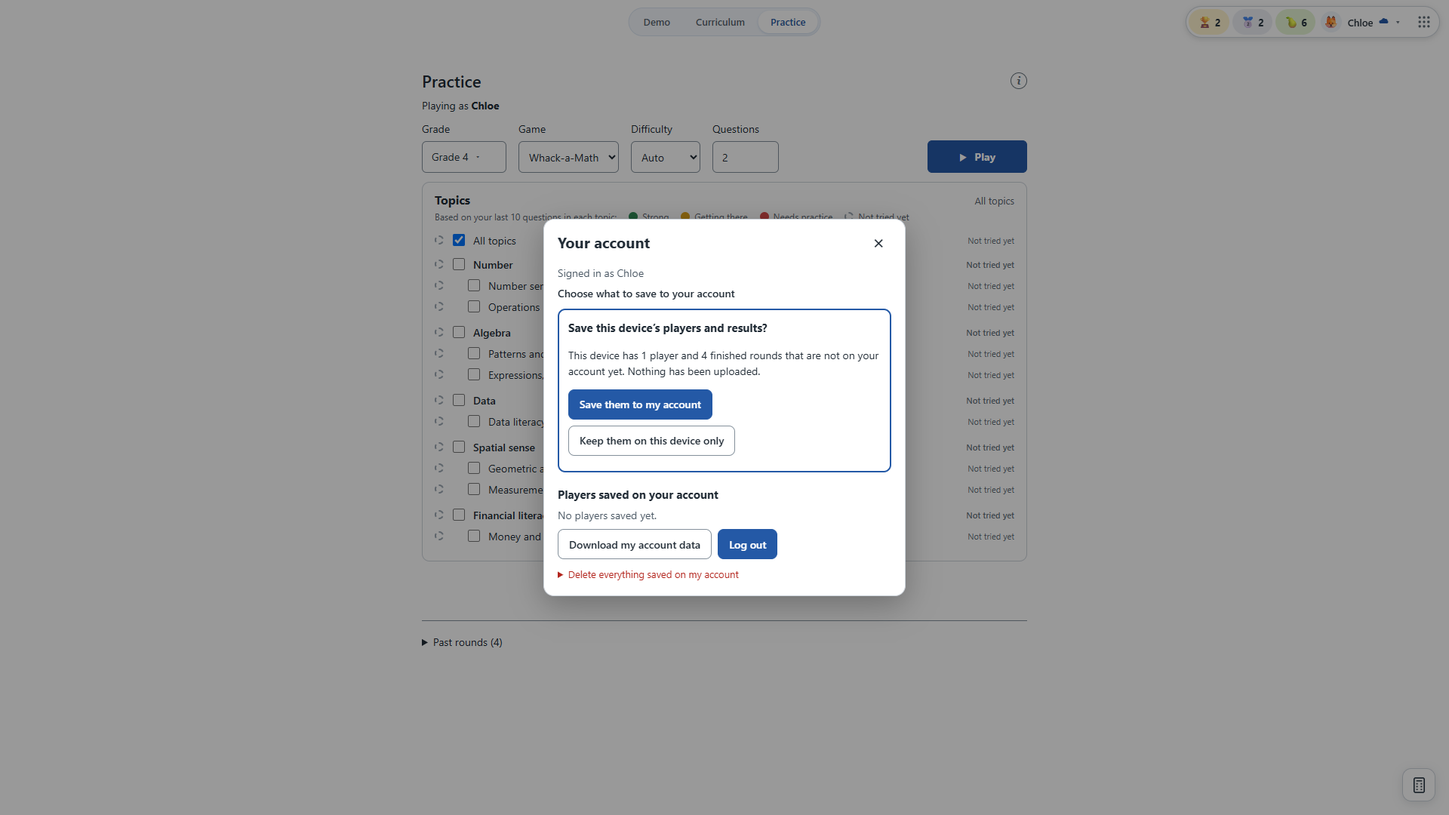
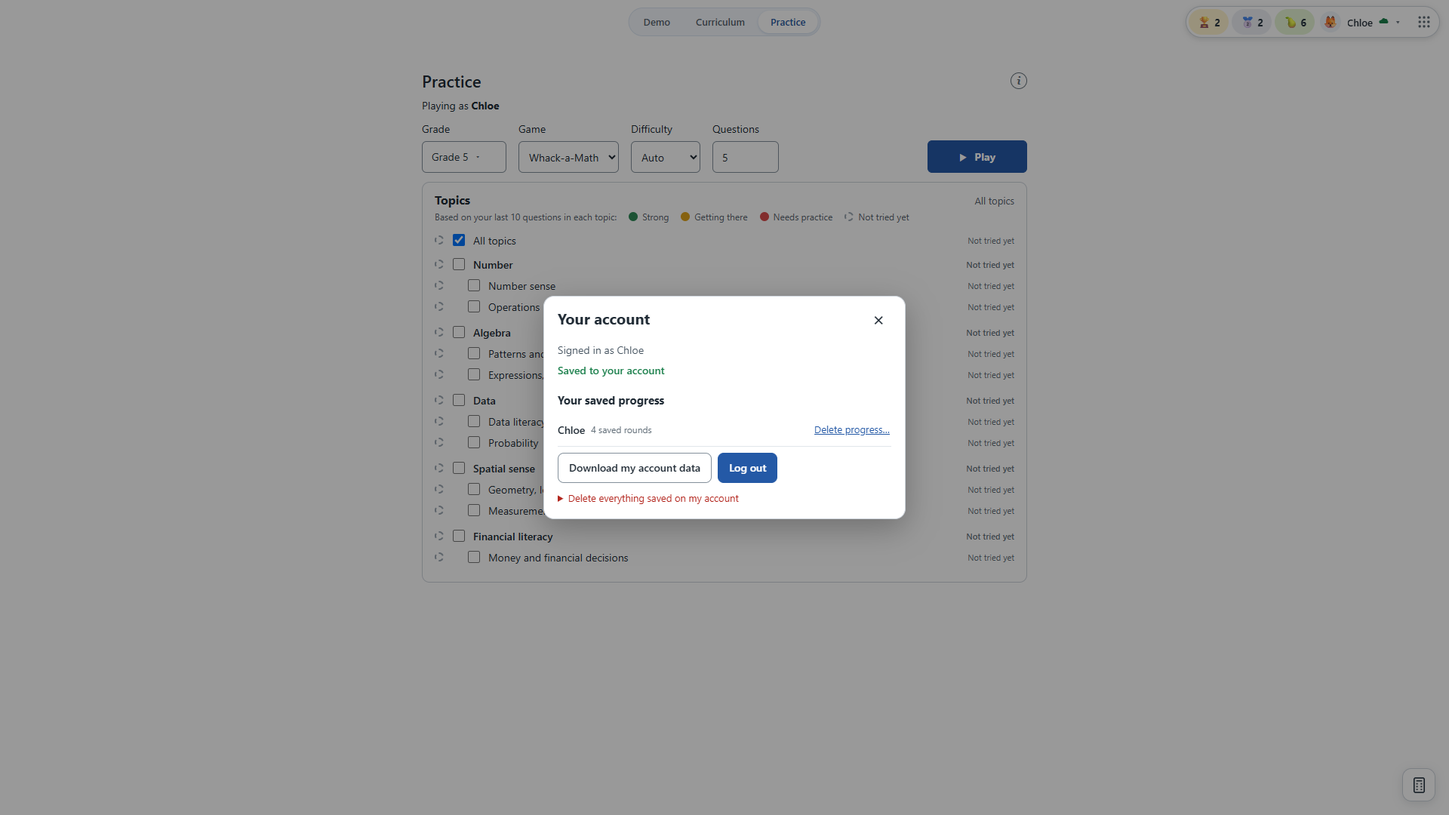
Login decides the player: signed in = only the account user, always saved; signed out = Guest, no progress

diff --git a/src/sync/index.js b/src/sync/index.js
@@ -5,7 +5,7 @@ import {HttpError,isOffline} from './http.js';
 import {createEngine} from './engine.js';
 import {createState,rememberAccount,lastAccount} from './state.js';
 import {browserLocal} from './local.js';
-import {chooseProfile,playerKey} from '../game/profile.js';
+import {chooseProfile,playerKey,addProfile} from '../game/profile.js';
 
 // The optional account: signing in saves this device's players and results to the person's account and loads them on any device.
 // Nothing here is required to play. A failed or slow call only changes the status text; the app keeps working from this device.
@@ -33,8 +33,26 @@ function set(patch){snapshot={...snapshot,...patch};snapshot.message=patch.messa
 
 function useAccount(account){
  rememberAccount(account);
- engine=account?createEngine({api,local:browserLocal,store:createState(account.id)}):null;
+ engine=null;
+ const owner=accountPlayer(account);
+ if(owner){
+  // This account syncs exactly one player: the login user. Nothing else on the device or the account is touched.
+  const store=createState(account.id),state=store.load();if(state.attach!=='done'){state.attach='done';store.save(state);}
+  const mine=p=>p.id===owner.id;
+  const scoped={
+   profiles:async()=>(await browserLocal.profiles()).filter(mine),
+   rounds:async()=>(await browserLocal.rounds()).filter(r=>r.profileId===owner.id),
+   upsertProfile:browserLocal.upsertProfile,addRounds:browserLocal.addRounds,
+  };
+  const scopedApi={...api,listLearners:async()=>{
+   const all=await api.listLearners();
+   return {...all,learners:all.learners.filter(l=>{try{return playerKey(l.name)===owner.id;}catch{return false;}})};
+  }};
+  addProfile(owner);
+  engine=createEngine({api:scopedApi,local:scoped,store});
+ }
  set({account,pending:null});
+ applyIdentity();
 }
 
 export function requestSync(delay=1500){
@@ -49,7 +67,6 @@ async function runSync(){
  try{
   const before=(await browserLocal.profiles()).length;
   const result=await engine.run();
-  await adoptAccountPlayer();
   const after=(await browserLocal.profiles()).length;
   if(result.status==='ask')set({status:'ask',pending:result.pending});
   else set({status:'saved',pending:null});
@@ -72,25 +89,23 @@ async function runSync(){
  }
 }
 
-// The first time an account is used on this device the login user becomes the active player: a new account gets a player with the
-// account's name; an account that already has players makes one of them active. Later sign-ins leave the choice alone.
+// Login decides who is playing. Signed in: the only player is the login user, named after the account (and always saved to it).
+// Signed out: Guest, with no progress. Where accounts do not exist (other addresses) the older local players still work.
 export const ownName=account=>String(account.name||account.email.split('@')[0]||'Me').normalize('NFKC').replace(/[\u0000-\u001f\u007f]/g,'').trim().replace(/\s+/g,' ').slice(0,40)||'Me';
-async function adoptAccountPlayer(){
- const account=snapshot.account;if(!account)return;
- const store=createState(account.id),state=store.load();if(state.adopted)return;
- const locals=await browserLocal.profiles(),linked=Object.keys(state.links);
- let target=null;
- if(!linked.length){
-  const name=ownName(account);try{const id=playerKey(name);if(!locals.some(p=>p.id===id))await browserLocal.upsertProfile({id,name,avatar:null,updatedAt:Date.now()});target={id,name};}catch{}
- }else{const first=locals.find(p=>linked.includes(p.id));if(first)target={id:first.id,name:first.name};}
- state.adopted=1;store.save(state);
- if(target)chooseProfile(target);
+export const accountPlayer=account=>{if(!account)return null;const name=ownName(account);try{return {id:playerKey(name),name};}catch{return null;}};
+function applyIdentity(){
+ if(!syncAvailable())return;
+ const player=accountPlayer(snapshot.account);
+ if(player)addProfile(player);
+ chooseProfile(player);
+ document.dispatchEvent(new CustomEvent('math-profile-change',{detail:player}));
 }
 
 export async function startSync(){
  if(started||typeof document==='undefined'||!syncAvailable())return;
  started=true;
- const returned=takeReturnParams();set({status:'checking',returned});
+ const returned=takeReturnParams();
+ const remembered=lastAccount();set({status:'checking',returned,account:remembered});applyIdentity();   // no flash of Guest while the login is checked
  try{
   const me=await auth.me();
   if(me){useAccount(me);requestSync(0);}else set({status:'signed-out'});
@@ -117,25 +132,16 @@ export async function logout(){
  useAccount(null);set({status:'signed-out'});
 }
 
-export async function chooseAttach(save){
- if(!engine)return;
- running=true;set({status:'syncing'});
- try{
-  const result=save?await engine.attachAll():await engine.keepLocalOnly();
-  set({status:result.status==='ask'?'ask':'saved',pending:null});
-  document.dispatchEvent(new CustomEvent('math-rounds-changed'));
- }catch(error){set({status:isOffline(error)?'offline':'error'});throw friendly(error);}
- finally{running=false;}
-}
-
 /** What the account holds (profiles and counts), for the account panel. */
-export async function accountLearners(){return api.listLearners().then(r=>r.learners);}
+export async function accountLearners(){const owner=accountPlayer(snapshot.account);return api.listLearners().then(r=>r.learners.filter(l=>{try{return owner&&playerKey(l.name)===owner.id;}catch{return false;}}));}
 
 /** Delete a profile and all its results from the account and from this device. */
 export async function deleteProfileEverywhere(profileId){
  if(engine)try{await engine.deleteProfile(profileId);}catch(error){throw friendly(error,'Could not delete from your account. Check your connection and try again.');}
  await browserLocal.deleteProfile(profileId);
+ applyIdentity();
  document.dispatchEvent(new CustomEvent('math-rounds-changed'));
+ requestSync(500);
 }
 
 /** The account's data as a JSON file download. */

diff --git a/src/pages/game.js b/src/pages/game.js
@@ -17,6 +17,7 @@ import {setMathText} from '../ui/math-text.js';
 import {mountGradePicker} from '../ui/grade-picker.js';
 import {listRounds,saveRound} from '../game/storage.js';
 import {chooseProfile,activeProfile} from '../game/profile.js';
+import {syncAvailable} from '../sync/config.js';
 import {el,reducedMotion,renderTex} from '../ui/dom.js';
 const app=document.querySelector('#app');
 app.innerHTML='<main class="game-page">'+pageNav('game')+'<div class="game-head"><h1>Practice</h1><div class="game-tools"><button id="game-quit" type="button" class="playback-icon" hidden aria-label="Quit game. You can resume later." title="Quit game (resume later)"><svg viewBox="0 0 24 24" aria-hidden="true" fill="none" stroke="currentColor" stroke-width="1.7" stroke-linecap="round" stroke-linejoin="round"><path d="M10 4H5v16h5"/><path d="M15 8l4 4-4 4"/><path d="M19 12H9"/></svg></button><span class="info-tip"><span class="info-icon" tabindex="0" role="img" aria-label="About saving">i</span><span id="save-status" role="status" class="info-bubble">Opening local progress…</span></span></div></div><div class="setup-gate"><form id="game-setup"><p class="game-player">Playing as <strong id="player-label"></strong></p><div class="game-grade game-field"><span class="game-field-label">Grade</span><div id="game-grade-host"></div></div><select id="game-grade" aria-label="Game grade" hidden></select><label>Game <select id="game-mode"><option value="moles">Whack-a-Math</option><option value="classic">Captain Patty</option></select></label><span id="game-difficulty-host"></span><label>Questions <input id="game-count" name="count" type="number" min="1" max="50" step="1" value="5" required aria-label="Number of questions" title="1–50 questions"></label><section id="topic-panel" class="topic-panel" aria-label="Topics and progress"><div class="topic-head"><h2>Topics</h2><span id="topic-summary" class="topic-summary">All topics</span></div><p id="topic-legend" class="stat-legend"></p><div id="topic-list" class="topic-list"></div></section><button type="submit" id="game-start" disabled>Play</button></form><div id="player-prompt" class="player-prompt" role="status"><strong>Choose or create a player to begin</strong><span>Use the player button at the top right.</span><button type="button" id="choose-player">Choose a player</button></div></div><p id="game-error" role="alert"></p><div id="game-round"></div></main>';
@@ -105,10 +106,12 @@ function setPlayer(name){
 gradeSelect.onchange=()=>{fillTopics([]);updateStart();};
 countInput.oninput=updateStart;
 // The player badge in the corner switches players without leaving the page, unless a round is in progress.
-document.addEventListener('math-profile-change',event=>{if(round?.status==='active')return;if(event.detail){setPlayer(event.detail.name);setStep('topics');}else{setPlayer('');round=undefined;feedback='';renderRound();setStep('player');}});
+document.addEventListener('math-profile-change',event=>{if(round?.status==='active'&&!syncAvailable())return;memoryOnly=false;if(round?.status==='active'){round=undefined;feedback='';renderRound();}if(event.detail){setPlayer(event.detail.name);setStep('topics');savedLabel();}else{setPlayer('');round=undefined;feedback='';renderRound();setStep('player');}});
 $('#choose-player').onclick=()=>document.querySelector('.profile-button')?.click();
+// Where accounts exist a guest cannot create players, so offer a round that is simply not saved.
+if(syncAvailable()){const guest=el('button','Play as Guest (not saved)');guest.type='button';guest.className=$('#choose-player').className;guest.onclick=()=>{memoryOnly=true;ready=true;setPlayer('Guest');setStep('topics');$('#game-start').disabled=false;savedLabel();};$('#choose-player').after(guest);}
 fillTopics([]);setStep('player');
-function savedLabel(){ $('#save-status').textContent=memoryOnly?'Playing without saving. Progress will be lost when this page closes.':'Progress saved on this device. No account needed.'; }
+function savedLabel(){ $('#save-status').textContent=memoryOnly?'Playing without saving. Progress will be lost when this page closes.':syncAvailable()?'Progress is saved to your account.':'Progress saved on this device. No account needed.'; }
 async function persist(next){
  const saved=memoryOnly?{...next,updatedAt:Date.now()}:await saveRound(next);
  if(!memoryOnly)document.dispatchEvent(new CustomEvent('math-rounds-changed'));
@@ -166,7 +169,7 @@ $('#game-setup').onsubmit=event=>{event.preventDefault();action(async()=>{
  if(!memoryOnly)rounds=await listRounds();
  const previous=rounds.find(r=>sameRound(r,key));
  const next=previous||{...makeRound(grade,chosenTopics(),Math.random,crypto.randomUUID(),Number(countInput.value),getChoice()),profileId:key,playerName:name};
- await persist({...next,playerName:name});chooseProfile({id:key,name});selectedPlayer=key;feedback='';
+ await persist({...next,playerName:name});if(!memoryOnly)chooseProfile({id:key,name});selectedPlayer=key;feedback='';
 });};
 try{
  rounds=await listRounds();ready=true;$('#save-status').textContent='Saved on this device.';$('#game-start').disabled=false;

diff --git a/src/ui/profile-corner.js b/src/ui/profile-corner.js
@@ -4,6 +4,7 @@ import {activeProfile,playerKey,addProfile,chooseProfile,profilesIn,profileStats
 import {el} from './dom.js';
 import {createAppLauncher} from './app-launcher.js';
 import {startAccount,statusDot,accountMenuItems} from './account.js';
+import {syncAvailable} from '../sync/config.js';
 
 // The player badge and lifetime statistics in the top-right corner of every page.
 const HUES=[212,28,150,280,350,48,190,320];
@@ -36,13 +37,15 @@ function statsView(){
 
 function menuView(close){
  const menu=el('div',undefined,'profile-menu');menu.setAttribute('role','menu');menu.setAttribute('aria-label','Player');
- menu.append(el('p','Who is playing?','menu-title'));
+ const accountsOn=syncAvailable();   // with accounts, login decides who plays: the login user, or Guest with no progress
+ menu.append(el('p',accountsOn?(profile?'Signed in':'Guest'):'Who is playing?','menu-title'));
+ if(accountsOn){const who=el('div',undefined,'menu-item menu-static');who.append(avatarNode(profile),el('span',profile?profile.name:'Guest (no progress)'));menu.append(who);}
  const people=profilesIn(rounds),entry=(person,label)=>{
   const item=el('button',undefined,'menu-item');item.type='button';item.setAttribute('role','menuitemradio');item.setAttribute('aria-checked',String(person?profile?.id===person.id:!profile));
   item.append(avatarNode(person),el('span',label));item.onclick=()=>{close();emit(person);};return item;
  };
- for(const person of people)menu.append(entry(person,person.name));
- menu.append(entry(null,'Guest (no progress)'));
+ if(!accountsOn){for(const person of people)menu.append(entry(person,person.name));
+ menu.append(entry(null,'Guest (no progress)'));}
  const add=el('button',undefined,'menu-item menu-add');add.type='button';add.setAttribute('role','menuitem');add.setAttribute('aria-expanded','false');add.append(el('span','+','avatar avatar-add'),el('span','Add a player'));
  // New players are created here, in the menu: no page change and no game starts.
  const form=el('form',undefined,'menu-new'),field=el('input');field.type='text';field.maxLength=40;field.autocomplete='off';field.placeholder='Name';field.setAttribute('aria-label','New player name');
@@ -50,7 +53,8 @@ function menuView(close){
  add.onclick=()=>{form.hidden=!form.hidden;add.setAttribute('aria-expanded',String(!form.hidden));if(!form.hidden)field.focus();};
  form.onsubmit=event=>{event.preventDefault();let id;try{id=playerKey(field.value);}catch(problem){error.textContent=problem.message;field.focus();return;}
   const person={id,name:field.value.trim().replace(/s+/g,' ')};addProfile(person);close();emit(person);};
- menu.append(add,form,...accountMenuItems(close));
+ if(!accountsOn)menu.append(add,form);
+ menu.append(...accountMenuItems(close));
  if(profile){
   const picker=el('div',undefined,'avatar-picker');picker.setAttribute('role','group');picker.setAttribute('aria-label','Choose an avatar');
   picker.append(el('p','Avatar','menu-title'));
@@ -69,7 +73,7 @@ function render(){
  if(profile)corner.append(statsView());
  const wrap=el('div',undefined,'profile-wrap'),button=el('button',undefined,'profile-button');button.type='button';button.setAttribute('aria-haspopup','menu');button.setAttribute('aria-expanded','false');
  button.append(avatarNode(profile),el('span',profile?profile.name:'Guest','profile-name'),statusDot(),el('span','▾','profile-caret'));
- button.setAttribute('aria-label',profile?`Player: ${profile.name}. Change player`:'Guest. Choose a player');
+ button.setAttribute('aria-label',syncAvailable()?(profile?`Signed in as ${profile.name}. Account menu`:'Guest, progress not saved. Account menu'):profile?`Player: ${profile.name}. Change player`:'Guest. Choose a player');
  const close=()=>{menu.remove();button.setAttribute('aria-expanded','false');document.removeEventListener('pointerdown',outside,true);document.removeEventListener('keydown',escape,true);};
  let menu;const outside=event=>{if(!wrap.contains(event.target))close();},escape=event=>{if(event.key==='Escape'){close();button.focus();}};
  const show=()=>{menu=menuView(close);wrap.append(menu);button.setAttribute('aria-expanded','true');document.addEventListener('pointerdown',outside,true);document.addEventListener('keydown',escape,true);menu.querySelector('[aria-checked=true],.menu-item')?.focus();};
@@ -96,5 +100,6 @@ export function mountProfileCorner(){
  startAccount();
  adoptThemeToggle();render();refresh();
  document.addEventListener('math-rounds-changed',refresh);
+ document.addEventListener('math-profile-change',()=>{if(busy)return;profile=activeProfile(rounds);render();});
  window.addEventListener('storage',event=>{if(event.key==='math-active-profile'){profile=activeProfile(rounds);render();}});
 }

diff --git a/src/ui/account.js b/src/ui/account.js
@@ -1,5 +1,5 @@
 import {el} from './dom.js';
-import {syncEnabled,getSync,onSync,startSync,login,logout,chooseAttach,accountLearners,deleteProfileEverywhere,accountExport,eraseAccountData,authClient,MESSAGES} from '../sync/index.js';
+import {syncEnabled,getSync,onSync,startSync,login,logout,accountLearners,deleteProfileEverywhere,accountExport,eraseAccountData,authClient,MESSAGES} from '../sync/index.js';
 import {playerKey} from '../game/profile.js';
 
 // The optional account: a small status button in the top-right corner, and a dialog for logging in, choosing what to save,
@@ -27,7 +27,7 @@ async function guarded(work,done){
 
 function loginView(snapshot){
  const view=el('div');
- view.append(el('p','You can play without an account. Log in to save your players and results online, so any device can use them.','auth-note'));
+ view.append(el('p','Log in and your progress is saved to your account, so any device can use it. Without logging in you play as a guest and nothing is saved.','auth-note'));
  const form=el('form',undefined,'auth-form'),[idLabel,id]=field('Email or username','text',{autocomplete:'username',required:true,maxLength:254,spellcheck:false,autocapitalize:'none'});
  const [pwLabel,pw]=field('Password','password',{autocomplete:'current-password',required:true,maxLength:128});
  const submit=el('button','Log in','auth-button auth-primary');submit.type='submit';submit.disabled=busy;
@@ -62,29 +62,21 @@ function accountView(snapshot){
  view.append(el('p',`Signed in as ${who.name||who.email||'your account'}`,'auth-note'));
  const status=el('p',snapshot.message,'auth-status');status.dataset.status=snapshot.status;view.append(status);
 
- if(snapshot.status==='ask'&&snapshot.pending){
-  const p=snapshot.pending,box=el('div',undefined,'auth-ask');
-  box.append(el('h3','Save this device’s players and results?'),el('p',`This device has ${plural(p.profiles.length,'player','players')} and ${plural(p.rounds.length,'finished round','finished rounds')} that are not on your account yet. Nothing has been uploaded.`));
-  const row=el('div',undefined,'auth-row');
-  row.append(button('Save them to my account',()=>guarded(()=>chooseAttach(true)),'auth-button auth-primary'),button('Keep them on this device only',()=>guarded(()=>chooseAttach(false),'Kept on this device. New rounds you play will be saved.')));
-  box.append(row);view.append(box);
- }
-
- const list=el('div',undefined,'auth-learners');view.append(el('h3','Players saved on your account'),list);
+ const list=el('div',undefined,'auth-learners');view.append(el('h3','Your saved progress'),list);
  if(!learners)list.append(el('p','Loading…','auth-note'));
- else if(!learners.length)list.append(el('p','No players saved yet.','auth-note'));
+ else if(!learners.length)list.append(el('p','Nothing saved yet. Your results are saved here as you play.','auth-note'));
  else{
   const ul=el('ul');
   for(const learner of learners){
    const li=el('li');li.append(el('span',learner.name,'auth-learner-name'),el('span',plural(learner.result_count,'saved round','saved rounds'),'auth-muted'));
-   const del=button('Delete…',()=>{
+   const del=button('Delete progress…',()=>{
     li.textContent='';
-    li.append(el('span',`Delete ${learner.name} and all their results from your account and this device? This cannot be undone.`,'auth-warn'),
-     button('Delete',()=>guarded(async()=>{await deleteProfileEverywhere(playerKey(learner.name));learners=null;},`${learner.name} was deleted.`),'auth-button auth-danger'),
+    li.append(el('span','Delete all your saved results from your account and this device? This cannot be undone.','auth-warn'),
+     button('Delete',()=>guarded(async()=>{await deleteProfileEverywhere(playerKey(learner.name));learners=null;},'Your saved progress was deleted.'),'auth-button auth-danger'),
      button('Cancel',()=>paint()));
     li.querySelector('button')?.focus();
    },'auth-link');
-   del.setAttribute('aria-label',`Delete ${learner.name} and their results`);li.append(del);ul.append(li);
+   del.setAttribute('aria-label','Delete my saved progress and results');li.append(del);ul.append(li);
   }
   list.append(ul);
  }

diff --git a/src/sync/sync.test.js b/src/sync/sync.test.js
@@ -104,3 +104,10 @@ test('the login user becomes the player: name from the account, trimmed and boun
  assert.equal(ownName({name:'x'.repeat(80),email:'a@b.c'}).length,40);
  assert.equal(ownName({name:'',email:''}),'Me');
 });
+
+test('login decides the player: the account is the only player, signed out is Guest',async()=>{
+ globalThis.localStorage??={getItem:()=>null,setItem(){},removeItem(){}};
+ const {accountPlayer}=await import('./index.js');
+ assert.deepEqual(accountPlayer({id:'u1',name:'Chloe M',email:'c@x.test'}),{id:'chloe m',name:'Chloe M'});
+ assert.equal(accountPlayer(null),null);
+});

diff --git a/src/ui/chrome.css b/src/ui/chrome.css
@@ -151,3 +151,4 @@ html[data-theme=dark] .auth-dialog{background:#222d37;color:#e1e7ed;border-color
 html[data-theme=dark] .auth-button{background:#2c3a47;color:#e1e7ed;border-color:#52606d}html[data-theme=dark] :is(.auth-primary){background:#4d82d6;border-color:#4d82d6;color:#0c1621}
 html[data-theme=dark] .auth-link{color:#99c5ff}html[data-theme=dark] .auth-field input{background:#182027;color:#e1e7ed;border-color:#52606d}
 html[data-theme-lock] #theme-toggle{display:none!important}
+.menu-static{cursor:default}.menu-static:hover{background:transparent}

diff --git a/README.md b/README.md
@@ -30,9 +30,9 @@ Animated worked examples, including extra room for stacked fractions:
 
 ## Optional account (save results online)
 
-Playing needs no account and works offline. On `math.hedgies.cloud` the player badge in the corner doubles as the account: its menu ends with *Log in to save results*, which opens a login panel (email or username and password, or Google/Microsoft through the shared login at auth.hedgies.cloud). Once logged in, the login user is the player: a new account gets a player with the account's name, made active at once (more players, for example siblings on one iPad, can be added from the same menu, up to 20 per account); their profiles and every finished practice round are saved to the account and appear on any device after login. A small status mark on the badge and a line in its menu show the state while the device keeps writing locally first and syncing when online; it reads *Saved to your account*, *Will save when you are online* or *Log in to save results to your account*. On first login you choose whether this device's existing players and results are attached to the account. Only ids, counts, timestamps and right/wrong per question are stored (no typed answers, no device data); a learner can be deleted with all results and the account's data exported as JSON from the same panel.
+Playing needs no account and works offline. On `math.hedgies.cloud` the player badge in the corner doubles as the account: its menu ends with *Log in to save results*, which opens a login panel (email or username and password, or Google/Microsoft through the shared login at auth.hedgies.cloud). Login decides who is playing: signed in, the one player is the login user (named after the account) and every finished round is always saved to the account; signed out, you play as Guest and nothing is saved. A logged-in user cannot add or switch players (the player menu shows only that user, their avatar choice and the account actions). Results saved to the account appear on any device after login. A small status mark on the badge and a line in its menu show the state while the device keeps writing locally first and syncing when online; it reads *Saved to your account*, *Will save when you are online* or *Log in to save results to your account*. Only ids, counts, timestamps and right/wrong per question are stored (no typed answers, no device data); a learner can be deleted with all results and the account's data exported as JSON from the same panel.
 
-<img src="docs/images/account-dialog.png" alt="Account dialog after logging in, asking whether to save this device's players and results to the account" width="700">
+<img src="docs/images/account-dialog.png" alt="Account dialog for the signed-in player showing saved rounds, download, log out and delete options" width="700">
 
 The server part lives in [`api/`](api/README.md); production setup and cutover are in [`docs/shared-infra.md`](docs/shared-infra.md). Account features are hidden on other addresses (localhost, previews) because the shared cookie only reaches `*.hedgies.cloud`.
 

diff --git a/src/README.md b/src/README.md
@@ -156,4 +156,6 @@ All three main HTML entry pages declare the manifest and Apple touch icon so ins
 
 ## Account sync
 
-`sync/engine.js` is browser-independent (`api`, `local` and `store` are injected; `engine.test.js` runs it against an in-memory server). A pass: list the account's profiles, adopt a same-named local profile instead of duplicating it, copy new ones locally; if this device has never-attached data stop at status `ask` until the person chooses (`attachAll` / `keepLocalOnly`); push profiles (last write wins by `updatedAt`) and finished rounds in batches of 25 (round id = result id, so repeats are `duplicate`); pull each profile's results after the saved cursor and store them as `remote` rounds (never pushed back). Rounds are only ever added to IndexedDB by `addRounds`; `game/profile.js` keeps a per-profile change time (`math-profile-times`). Per-account state lives in `localStorage` under `math-sync:<account id>`. `api/` holds the FastAPI service (see `api/README.md`).
+`sync/engine.js` is browser-independent (`api`, `local` and `store` are injected; `engine.test.js` runs it against an in-memory server). A pass: list the account's profiles, adopt a same-named local profile instead of duplicating it, copy new ones locally; (the attach question is no longer used by the app: `index.js` scopes the engine to the login user's single player and marks attach done;) push profiles (last write wins by `updatedAt`) and finished rounds in batches of 25 (round id = result id, so repeats are `duplicate`); pull each profile's results after the saved cursor and store them as `remote` rounds (never pushed back). Rounds are only ever added to IndexedDB by `addRounds`; `game/profile.js` keeps a per-profile change time (`math-profile-times`). Per-account state lives in `localStorage` under `math-sync:<account id>`. `api/` holds the FastAPI service (see `api/README.md`).
+
+With accounts available (`*.hedgies.cloud`) `sync/index.js#applyIdentity` makes login the only source of identity: signed in = the account player (`accountPlayer`, id = normalised account name, written to `math-active-profile`), signed out = Guest (`none`). The player menu then has no player list, Add or Guest entry; `game.js` offers *Play as Guest (not saved)*. Elsewhere the older local players still work.

diff --git a/CLAUDE.md b/CLAUDE.md
@@ -140,3 +140,4 @@ Moved Math to `math.hedgies.cloud` on the shared platform and added an optional 
 Follow-up: GitHub Pages workflows and the moved-notice code removed on the owner's decision. Any active shared login may save its own results (no approval step). Auth service checked read-only: `return_to` and credentialed CORS accept any https `*.hedgies.cloud`, so math.hedgies.cloud needs no auth change.
 Follow-up: "Back up or move data" (device backup file) removed on the owner's decision; `avatar-picker.png` and `account-dialog.png` need a retake. Practice (`game.html`) always renders light: `data-theme-lock="light"` on its `<html>`, honoured by `public/theme.js`, toggle hidden.
 Follow-up: the login button and player badge are one component (status dot on the badge; Log in / Account / Log out at the end of its menu). The first time an account is used on a device its user becomes the active player (new account: a player named after the account; existing account: one of its players); adoption flag `adopted` in the per-account sync state. Screenshots retaken.
+Follow-up: identity is login-driven (see `src/README.md`): signed in = only the account player, always saved; signed out = Guest, no progress; no add/switch players. The first-login attach question is gone from the UI. Known limit: the local player id is the normalised account name, so two different accounts with the same display name on one shared device would share that device's local cache of rounds (server data stays separate).
